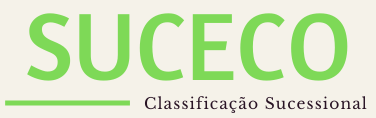
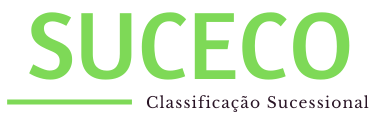
ajuste background

diff --git a/templates/base.html b/templates/base.html
@@ -20,7 +20,7 @@ $(document).ready(function() {
  </script>
 
 	<!-- Navbar -->
-  <nav class="navbar navbar-expand-lg navbar-light bg-light">
+  <nav class="navbar navbar-expand-lg navbar-light bg-white">
   <a href="/" class="navbar-brand" href="#">
       <img src="{% static 'images/suceco.png' %}"  height="60" class="d-inline-block align-top" alt="Classificação Sucessional">
   </a>
